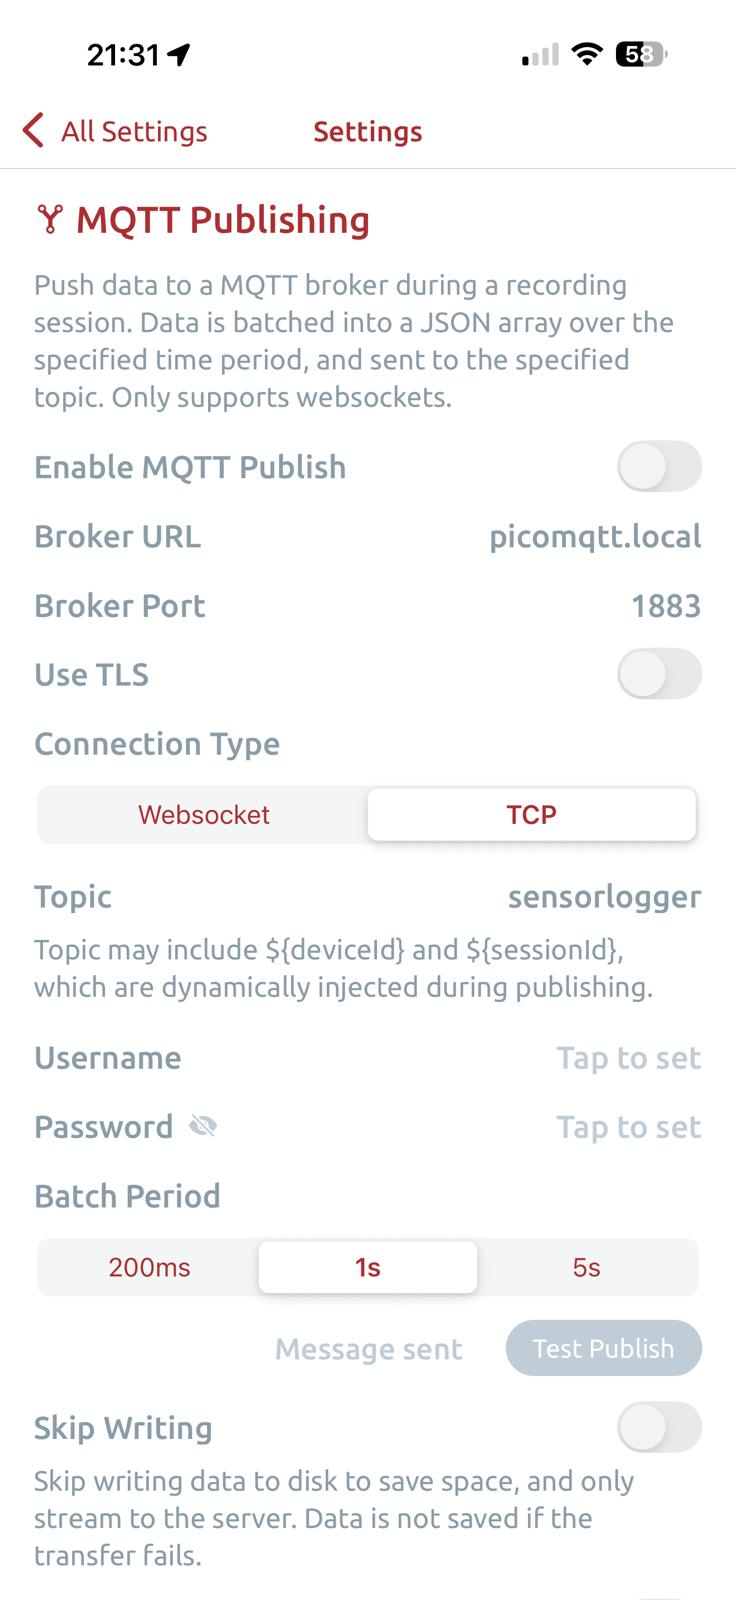
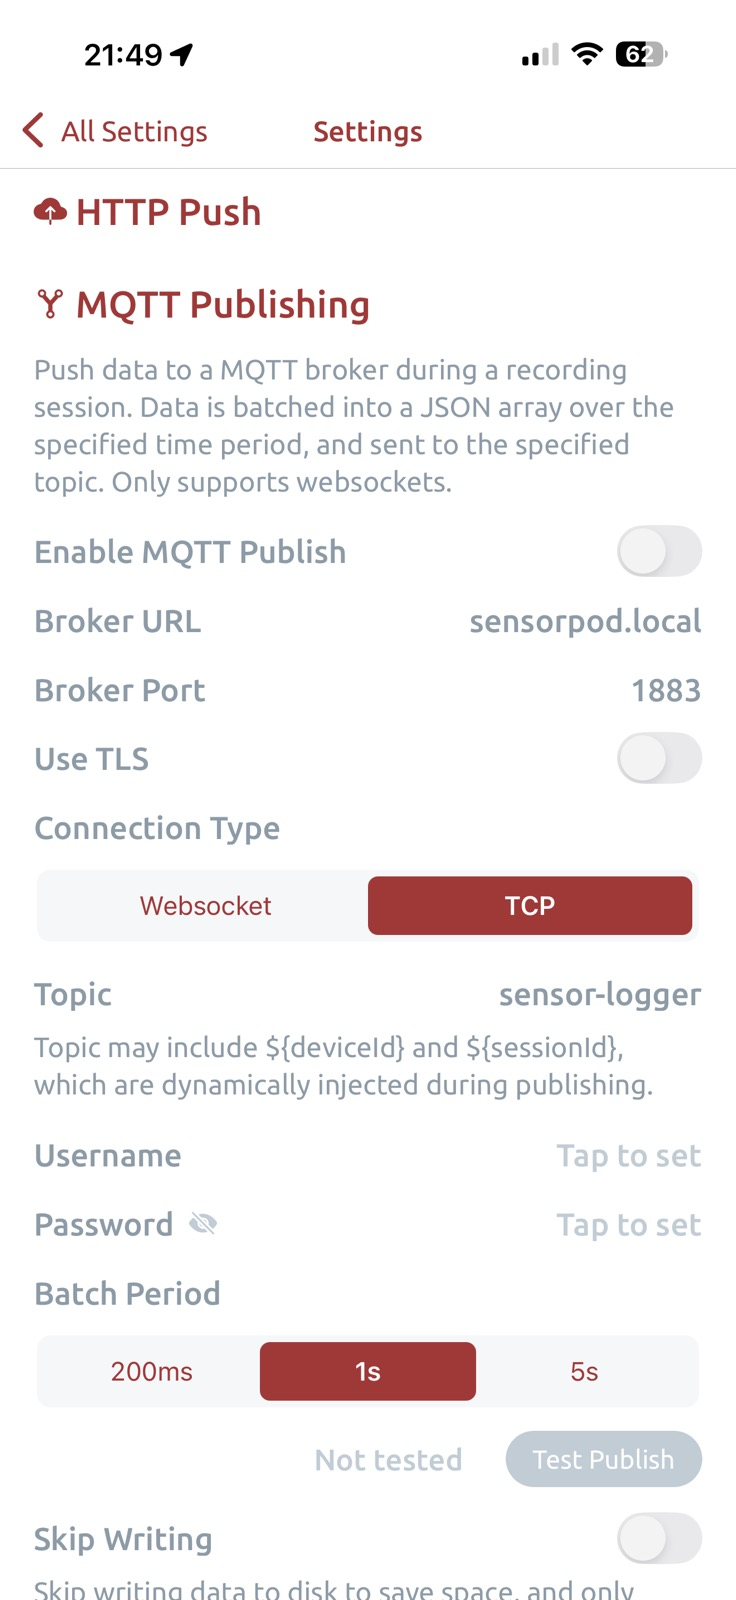
fix broker/ios deeplink and screenshot

diff --git a/README.md b/README.md
@@ -12,10 +12,10 @@ It is a demonstration how to use [Sensor Logger](https://www.tszheichoi.com/sens
 
 ## How SensorPod talks to Sensor Logger
 
-SensorPod can connect to a WiFi access point. It  simultaneously can act as an access point itself, giving three possible scenarios:
+SensorPod always runs a WiFi access point and can simultaneously connect to another access point as a station once credentials are provisioned. Three deployment scenarios:
 
 1. the mobile is a personal hotspot and SensorPod connects to it
-2. the mobile as well as SensorPod connect to some common WiFi acces point
+2. the mobile as well as SensorPod connect to some common WiFi access point
 3. the mobile connects as WiFi client to the SensorPod WiFi access point.
 
 SensorPod runs an MQTT broker which publishes sensor updates:
@@ -23,12 +23,24 @@ SensorPod runs an MQTT broker which publishes sensor updates:
 - MQTT-over-TCP: port 1883, no TLS
 - MQTT-over-Websockets: port 8883, no TLS
 
-The broker's IP address is:
+The broker is reachable at:
 
-- sensorpod.local (resolved via mDNS if SensorPod is a WiFi client - recommended for iOS)
-- 192.168.4.1 (if SensorPod used as WiFi access point - recommended for Android)
+- `sensorpod.local` (resolved via mDNS when SensorPod is a WiFi client — recommended for iOS)
+- `[phone redacted]` (when the mobile connects to SensorPod's own AP — recommended for Android)
 
-On recording start, Sensor Logger connects to this broker and subscribes (typically to topic '#' - all topics) - now Sensor Logger can run in the background logging arbitrary sensors including Bluetooth sensors which are not supported natively.
+The broker starts at boot and runs on both the AP and the STA interface simultaneously, so it is reachable regardless of WiFi state.
+
+### mDNS service announcements
+
+SensorPod advertises itself on both interfaces via mDNS as `<HOSTNAME>.local` (default `sensorpod.local`). The following services are announced:
+
+- `_mqtt._tcp` on port 1883 — instance name `sensorpod-TCP-<MAC>`
+- `_mqtt-ws._tcp` on port 8883 with TXT record `path=/mqtt` — instance name `sensorpod-WS-<MAC>`
+- `_workstation._tcp` (generic host advertisement)
+
+Clients that browse mDNS (iOS, Linux Avahi, Home Assistant) can therefore discover the broker without knowing its IP. Android's mDNS resolver is unreliable — use the fixed AP IP `192.168.4.1` there.
+
+On recording start, Sensor Logger connects to this broker and subscribes (typically to topic `#` — all topics). Sensor Logger can then run in the background logging arbitrary sensors including Bluetooth sensors which are not supported natively.
 
 ## How to configure Sensor Logger manually
 
@@ -39,15 +51,15 @@ here are screenshots from the Settings -> Data Streaming page:
 	<img src="https://raw.githubusercontent.com/mhaberler/sensorpod/master/assets/broker-android.jpg" width="30%">
 </div>
 
-If SensorPod and SensorLogger already are WiFi-connected, try the 'Test Push' button - it should show a success: "Message sent"
+If SensorPod and SensorLogger already are WiFi-connected, try the 'Test Push' button — it should show a success: "Message sent"
 
-## Configure Sensor Logger via  link or QR Code
+## Configure Sensor Logger via link or QR Code
 
 This is easier than typing in manually and reflects the above configurations
 
 ### iOS
 
-[Click this link](https://sensorlogger.app/link/config/KLUv/WDgA90OAAbcVSUgrbYBLLDDTA4lVcT6E9wSRNwFapzXb2gzVH5dt5sqOzIAMIBxRQBMAEcAzr3ZvJPQPti3rUGSXdUz/2peJNmV7vvc+eVCriJ3cxJk99pYIdn1PI/ARk+2/hQCyss+SuH2/lrcGskKKPf1GZodrmdFz+OAHg+n4TgKGo7Ao8FgQFC+1sT/KtmVaZ74pSz8CuN60/uvkcsuJLsWVXtlafHu2mFfLYtvXYSnob2WSn4hRiV3jRZLHq7rykZuAR8lwLSU6+aUxpPlb6axU+uQm6kthNx6MRh+UDYX+f19shxwOBwJ5TfHZPm08XO4ufgfYTk/VwsXuNFlPBm73gUqWerrhfEEV8JKQrkZnYDE3UyyJGhkayYY6CDUxkA5yyksmPK48u1qcu6dLCfRNEEkS8XgQTI1PERSwhRNkElAJEEoDweUhImlIoksllIyOgpHrWaDfQ5C0wEyIBCGLErbpGR2DSI2Y7FpgwTkM4xjNO7ghK9j+67whqQifJJs3GQYGatcWJXgZiNVo3SQay2RDA+lYdHDdV6WCwna6WnzJCbMavMUEwjrnICjGtAwgFED5puS2TAMhec+Ygx4HZZOyvLMZwxQFtfhGKTBCjqoXntDpJHXgbBC4PA=) and import the config into Sensor Logger or scan this QR Code:
+[Click this link](sensorlogger://config/KLUv/WCUA/UMAOZXSCQgraYNAwy3aM8KMR3UHlnKYeJpOjPLO2mZYnHUNQU6MgAwgHE6AD4AQAAEX1XUqp2Ug3xVZ07HrO75NJp0WZM8bY1ME74qhmEaOfFXssMH50+6Cr7c7JR0EfIJ59nYDav8kj8RqxKdCvk6gtpeNrsR8uTkq1JErFEliua2DtnIoOjFRGAa3JQw0vkglDDjJGmkX7ZdyEkZ614u3SJwD9IlYwHNrr8e4HA0d96r09cdMnWLR6duCIm1NZo8L6dm4S9tm5PK17HxYTAM43Aej0WzcAw0i8ajYTAc526pqTv6qiwB1d/CnacFJQimTMvXBZovVQC99h6yhm5SS1CogtOIcyNKY15q2+AAlKy0ZVyh+OuTCOUXCsv3lG1CkDrWJg0vICCCZE3aAViS3fkULBr8eUHiUifGu+IbiIzwRrm6yXAyVsGgyjVFh+KOZQB1lkgED2Vh0cN13suFCtqptPknJgy1+RUTDuuMgGMNaBjASAPmTAlsGLrC8z5iD3gZls7L8vwzBi6L2+GYpMECOiivvUKkjdfRsELg8A==) and import the config into Sensor Logger or scan this QR Code:
 
 <div style="display: flex; justify-content: center;">
   <img src="https://raw.githubusercontent.com/mhaberler/sensorpod/master/assets/qrcode-ios.jpg" alt="Placeholder" style="max-width: 300px; max-height: 300px;">
@@ -63,9 +75,11 @@ This is easier than typing in manually and reflects the above configurations
 
 ## Supported Boards
 
+The active build envs cover a fleet of M5Stack boards plus a few generic devkits — see `[env:*]` sections in `platformio.ini` for the full list. The default env is `m5stack-nanoc6`. Frequently used:
+
+- **[M5Stack NanoC6](https://docs.m5stack.com/en/core/nanoc6)** (default)
 - **[M5Stack Tab5-P4](https://docs.m5stack.com/en/core/Tab5)**
 - **[M5Stack CoreS3](https://docs.m5stack.com/en/core/cores3)**
-- **[M5Stack NanoC6](https://docs.m5stack.com/en/core/nanoc6)**
 - **[M5Stack AtomS3](https://docs.m5stack.com/en/core/atoms3)**
 - **[M5Stack Stamp S3](https://docs.m5stack.com/en/core/stamp_s3)**
 - **[Seeed XIAO ESP32-C6](https://wiki.seeedstudio.com/xiao_esp32c6_getting_started/)**
@@ -84,90 +98,83 @@ pip install platformio
 cd sensorpod
 ```
 
-### Build for Specific Board
+### Build, flash, monitor
 
 ```bash
-# Build for Seed Xiao esp32c6
-pio run -e seed_xiao_esp32c6
+# Build default env (m5stack-nanoc6)
+pio run
 
-# List all available environments
-pio env list
+# Build a specific env
+pio run -e esp32-c5-devkitc1-n16r8
+
+# Flash and open serial monitor
+pio run -e m5stack-nanoc6 -t upload -t monitor
+
+# Build a merged single-binary image (drops into firmware/)
+pio run -e m5stack-nanoc6 -t firmware
 ```
 
-### Upload Firmware
+## WiFi provisioning
 
-```bash
-# Upload to board
-pio run -e pio run -e seed_xiao_esp32c6 --target upload
+SensorPod does **not** take WiFi credentials at build time. Provisioning is done at runtime over the **serial** transport of the [Improv-WiFi](https://www.improv-wifi.com/) protocol (BLE transport is not enabled in this firmware). Credentials are stored in NVS (`Preferences` namespace `wifi-creds`).
 
-# Monitor serial output
-pio run -e pio run -e seed_xiao_esp32c6 --target upload --target monitor
-```
+See the [pioarduino-ghota README](https://github.com/mhaberler/pioarduino-ghota/blob/master/README.md) for the end-to-end provisioning walkthrough. For SensorPod use the **serial** Improv client, e.g. [Improv Web — Serial](https://www.improv-wifi.com/serial/), instead of the BLE client linked there.
+
+The device's own AP is named `ESP32-<MAC>` with PSK = the hostname (`sensorpod` unless overridden by `-DHOSTNAME=…` at build time). The AP is always up regardless of whether STA credentials are present. Once provisioned, the Arduino-ESP32 driver auto-reconnects if the upstream AP later drops.
+
+### Erasing credentials
+
+Long-press the on-board button (≥800 ms) to wipe saved credentials and stop the STA. The AP stays up. The device does not reboot. Power-cycle confirms the wipe persisted.
+
+Click counts (single/double/multi) are reserved for application-level button events.
+
+## Sensors
+
+The default `loop()` polls a VL53L0X time-of-flight distance sensor on the I2C bus and publishes:
+
+- `VL53L0X` topic: `{"distance_mm": <uint>}` at ~5 Hz
+- `status` topic: `{"uptime": <s>, "cpu_temperature": <°C>, "rssi": <dBm>}` at 1 Hz
+
+If no VL53L0X is detected at boot, polling is skipped and only the `status` topic publishes.
 
 ## Configuration
 
-### WiFi Credentials
+### Build flags
 
-Those are set at build time, so decide on the scenario - my recommendation:
-
-- iOS: enable mobile hotspot, have SensorPod connect to the mobile Hotspot
-    - no common access point needed
-    - mobile still has Internet connectivity via  mobile data or as a WiFi client
-    - broker IP address resolved by MDNS.
-- Android: connect to SensorPod WiFi AP
-    - no common access point needed
-    - broker IP address known in advance - always 192.168.4.1
-    - MDNS not usable - Android implementation is deficient
-    - mobile loses Internet connectivity while connected to SensorPod WiFi AP
-
-Set environment variables before building:
-
-```bash
-export WIFI_SSID2="your_ssid"
-export WIFI_PASSWORD2="your_password"
-
-pio run -e pio run -e seed_xiao_esp32c6
-
-```
-
-Or edit `platformio.ini` credentials section directly.
-
-### Build Flags
-
-Key configuration options in `platformio.ini`:
+Key options in `platformio.ini`:
 
 ```ini
-# Debug level (0-5): 0=none, 5=verbose
--DCORE_DEBUG_LEVEL=3
-
-# MQTT port and WebSocket port
+-DCORE_DEBUG_LEVEL=5    # 0=none, 5=verbose (release env uses 1)
 -DMQTT_PORT=1883
 -DMQTTWS_PORT=8883
+-DHOSTNAME=\"sensorpod\"
 ```
 
-## Project Structure
+`SGO_DEFAULT_OWNER` / `SGO_DEFAULT_REPO` / `SGO_DEFAULT_BIN` and `BUILD_SHA` / `BUILD_DATE` are auto-injected by `scripts/inject_build_info.py` from `git remote` / commit metadata.
+
+## Project structure
 
 ```
 sensorpod/
 ├── src/
-│   ├── main.cpp           # Application entry point
-│   ├── i2cio.cpp/.hpp     # I2C sensor interface
-│   ├── mqtt.cpp           # MQTT client implementation
-│   ├── BLEScanner.cpp     # Bluetooth scanning
-│   ├── wifisetup.cpp      # WiFi configuration
-│   └── ringbuffer.hpp     # Data buffering utility
-├── platformio.ini         # Project configuration
-└── include/               # Header files and configuration
+│   ├── main.cpp        # setup/loop, sensor polling, MQTT publish, button
+│   ├── wifisetup.cpp   # AP + STA + mDNS, Improv-WiFi handoff
+│   ├── mqtt.cpp        # PicoMQTT broker (TCP + WebSocket)
+│   └── credstore.hpp   # NVS wrapper for WiFi credentials
+├── scripts/            # PlatformIO extra_scripts (build info, version, OTA)
+├── platformio.ini      # Boards + envs + lib_deps
+└── *.csv               # Partition tables
 ```
 
 ## Dependencies
 
-- **[M5Unified](https://github.com/m5stack/M5Unified )**: Board abstraction layer for M5Stack devices
-- **[ArduinoJson](https://github.com/bblanchon/ArduinoJson)**: JSON parsing and generation
-- **[PicoMQTT](https://github.com/mlesniew/PicoMQTT.git)**: Lightweight MQTT broker
-- **[PicoWebsockets](https://github.com/mlesniew/PicoMQTT.git)**: WebSocket implementation
-- **[BTHomeDecoder](https://github.com/fredriknk/BTHomeDecoder.git)**: [BTHome V2](https://bthome.io/) decoder for sensors
-- **[Adafruit_VL53L0X](https://github.com/adafruit/Adafruit_VL53L0X)**: driver for the VL53L0X time-of-flight distance sensor
+Resolved automatically via `lib_deps` in `platformio.ini`:
+
+- **[ArduinoJson](https://github.com/bblanchon/ArduinoJson)** — JSON encoding for MQTT payloads
+- **[PicoMQTT](https://github.com/mlesniew/PicoMQTT)** + **[PicoWebsocket](https://github.com/mlesniew/PicoWebsocket)** — embedded broker + WS transport
+- **[Improv-WiFi-Library](https://github.com/mhaberler/Improv-WiFi-Library)** — serial provisioning protocol
+- **[OneButton](https://github.com/mathertel/OneButton)** — debounced button + long-press detection
+- **[Adafruit_VL53L0X](https://github.com/adafruit/Adafruit_VL53L0X)** — time-of-flight distance sensor driver
 
 ## License
 